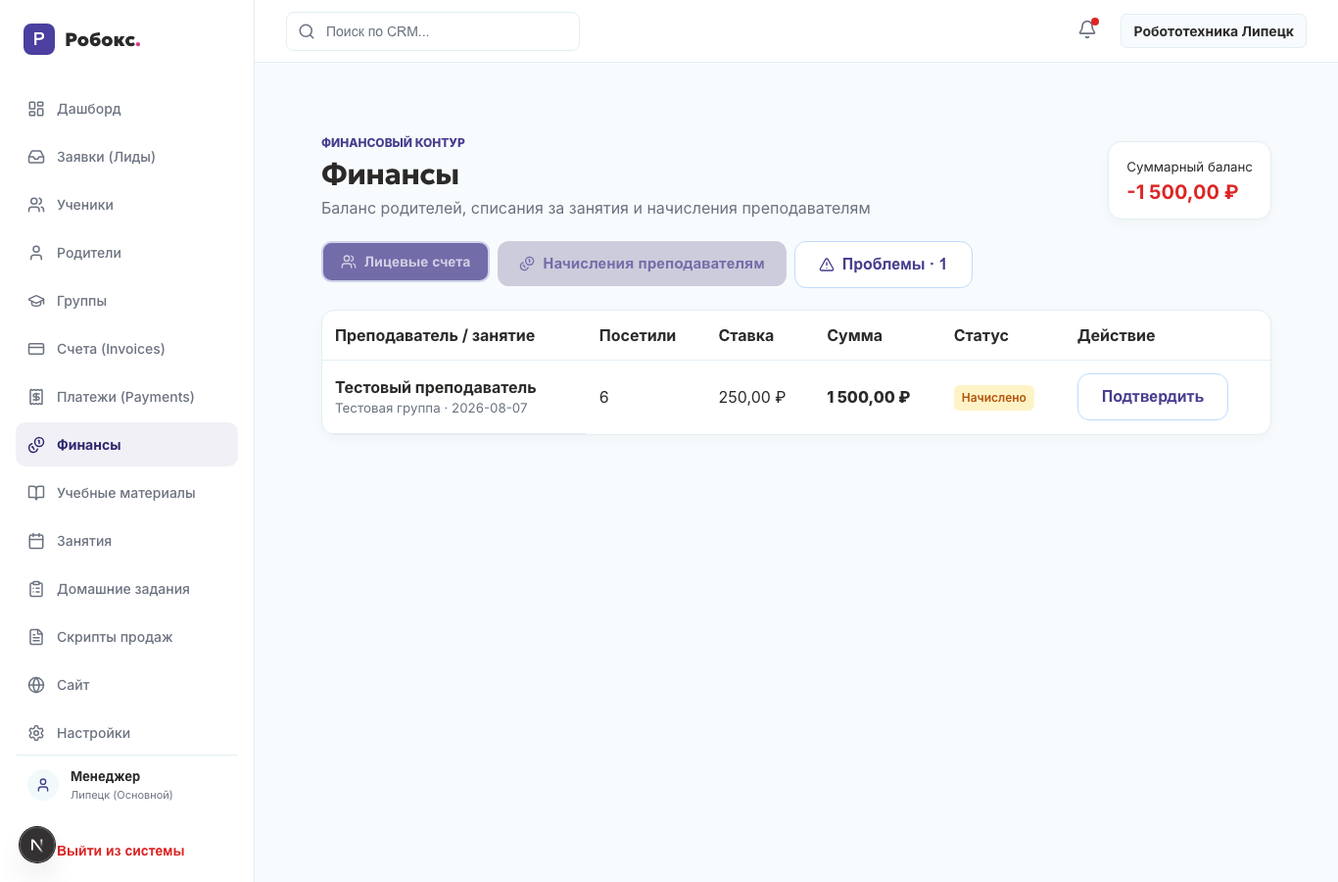
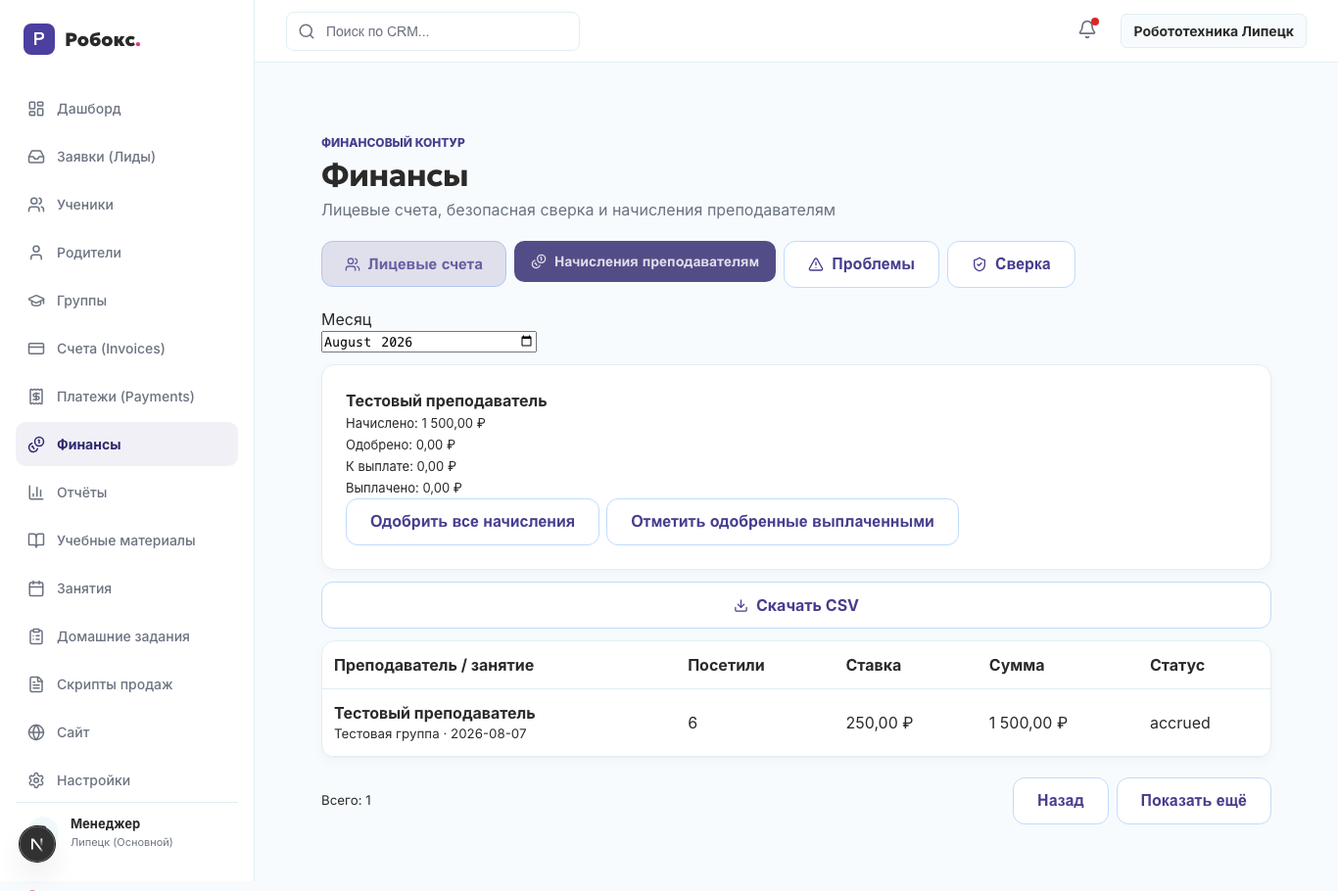
test(finance): verify reconciliation and reporting flows

diff --git a/apps/web/e2e/finance-reconciliation-reports.spec.ts b/apps/web/e2e/finance-reconciliation-reports.spec.ts
@@ -1,0 +1,94 @@
+import fs from "node:fs";
+import path from "node:path";
+import { expect, test, type Page } from "@playwright/test";
+
+const output = path.resolve(process.cwd(), "../../docs/media/finance-reconciliation");
+fs.mkdirSync(output, { recursive: true });
+const payment = { id: "20000000-0000-4000-8000-000000000001", amount: 2400, provider: "manual", status: "paid", paid_at: "2026-08-03T10:00:00Z", reflected: false, invoices: { number: "TEST-001" }, guardians: { full_name: "Тестовый плательщик" } };
+const warning = { id: "warning-1", warning_type: "missing_lesson_price", lesson_session_id: "20000000-0000-4000-8000-000000000002", details: { groupId: "20000000-0000-4000-8000-000000000003" }, lesson_sessions: { lesson_date: "2026-08-04", group_id: "20000000-0000-4000-8000-000000000003", groups: { title: "Тестовая группа" } } };
+
+async function noOverflow(page: Page) {
+  expect(await page.evaluate(() => document.documentElement.scrollWidth <= document.documentElement.clientWidth + 1)).toBe(true);
+}
+
+async function mockApp(page: Page) {
+  let paymentReflected = false;
+  let warningResolved = false;
+  await page.route("**/api/crm/media?path=branding/**", (route) => route.fulfill({ status: 200, contentType: "image/svg+xml", body: '<svg xmlns="http://www.w3.org/2000/svg" viewBox="0 0 32 32"><rect width="32" height="32" rx="8" fill="#4b3f9f"/><text x="16" y="22" text-anchor="middle" font-size="18" fill="white">Р</text></svg>' }));
+  await page.route("**/api/crm/finance?**", async (route) => {
+    const url = new URL(route.request().url());
+    const view = url.searchParams.get("view") || "accounts";
+    const items = view === "reconciliation" ? [{ ...payment, reflected: paymentReflected }] : view === "warnings" && !warningResolved ? [warning] : [];
+    const summary = view === "reconciliation" ? { paidCount: 1, paidAmount: 2400, reflectedCount: paymentReflected ? 1 : 0, unreflectedCount: paymentReflected ? 0 : 1 } : null;
+    await route.fulfill({ status: 200, contentType: "application/json", body: JSON.stringify({ ok: true, canManage: true, view, items, summary, page: 1, total: items.length, hasMore: false }) });
+  });
+  await page.route("**/api/crm/finance/reconcile", async (route) => {
+    const body = route.request().postDataJSON();
+    if (body.action === "payments") paymentReflected = true;
+    if (body.action === "lesson") warningResolved = true;
+    await route.fulfill({ status: 200, contentType: "application/json", body: JSON.stringify({ ok: true }) });
+  });
+  await page.route("https://placeholder.supabase.co/rest/v1/**", (route) => route.fulfill({ status: 200, contentType: "application/json", headers: { "content-range": "0-0/0" }, body: "[]" }));
+  await page.route("**/api/crm/reports?**", (route) => route.fulfill({ status: 200, contentType: "application/json", body: JSON.stringify({
+    ok: true,
+    directories: { branches: [{ id: "branch", name: "Тестовый филиал" }], courses: [{ id: "course", title: "Тестовое направление" }], groups: [{ id: "group", title: "Тестовая группа" }], teachers: [{ id: "teacher", name: "Тестовый преподаватель" }] },
+    report: {
+      sources: { cash: "payments paid/succeeded", lessonDebits: "billing_ledger_entries.lesson_debit", payroll: "teacher_payroll_entries snapshots" },
+      students: { active: 8, withoutGroup: 1, newInPeriod: 2 }, groups: { active: 2, occupancyRate: 75 },
+      lessons: { scheduled: 12, completed: 9, cancelled: 1, moved: 2 }, attendance: { rate: 88, present: 38, late: 3 },
+      finance: { cashReceived: 12400, paidPayments: 5, lessonDebits: 8400, totalDebt: 1700, debtors: 1 },
+      payroll: { accrued: 4200, approved: 3000, payable: 1200, paid: 1800 },
+      groupRows: [{ id: "group", title: "Тестовая группа", teacher: "Тестовый преподаватель", students: 6, capacity: 8, occupancyRate: 75, completedLessons: 5, visits: 24, absences: 3, lessonDebits: 4800, teacherPayroll: 2400 }],
+      teacherRows: [{ id: "teacher", teacher: "Тестовый преподаватель", completedLessons: 9, actualVisits: 41, averageChildren: 4.6, accrued: 4200, approved: 3000, paid: 1800, payable: 1200 }],
+      attendanceRows: [{ studentId: "student", student: "Тестовый ученик", groupId: "group", group: "Тестовая группа", lessons: 8, present: 6, late: 1, absentExcused: 1, absentUnexcused: 0, rate: 88 }],
+      debtRows: [{ guardian: "Тестовый плательщик", children: "Тестовый ученик", balance: -1700, lastPayment: "2026-08-03", lastDebit: "2026-08-05" }],
+    },
+  }) }));
+  await page.route("**/api/crm/reports/export?**", (route) => route.fulfill({ status: 200, contentType: "text/csv; charset=utf-8", headers: { "content-disposition": 'attachment; filename="report.csv"' }, body: "\uFEFFТест;Сумма\r\nСтрока;100" }));
+}
+
+test.describe("finance reconciliation and reports", () => {
+  test.describe.configure({ mode: "serial" });
+  test.skip(process.env.REAL_SUPABASE === "true", "Uses synthetic operational fixtures");
+
+  test("admin repairs finance and inspects management reports", async ({ page }) => {
+    await page.setViewportSize({ width: 1366, height: 768 });
+    await mockApp(page);
+    await page.goto("/crm/finance", { waitUntil: "domcontentloaded" });
+    await expect(page.getByText("Лицевые счета не найдены.")).toBeVisible();
+    await page.getByRole("button", { name: "Сверка" }).click();
+    await expect(page.getByText("Не отражено")).toBeVisible();
+    await expect(page.getByText("Тестовый плательщик")).toBeVisible();
+    await page.screenshot({ path: path.join(output, "finance-cutover.png"), fullPage: true });
+    await page.getByRole("checkbox").check();
+    await page.getByRole("button", { name: "Зачислить выбранные исторические оплаты" }).click();
+    await expect(page.getByText(/учтено/)).toBeVisible();
+
+    await page.getByRole("button", { name: "Проблемы" }).click();
+    await expect(page.getByText("Не задана цена занятия")).toBeVisible();
+    await expect(page.getByRole("link", { name: "Настроить стоимость группы" })).toHaveAttribute("href", /crm\/groups/);
+    await page.getByRole("button", { name: "Повторить финансовую обработку" }).click();
+    await expect(page.getByText("Открытых финансовых проблем нет.")).toBeVisible();
+    await page.screenshot({ path: path.join(output, "finance-problems-repaired.png"), fullPage: true });
+
+    await page.goto("/crm/reports", { waitUntil: "domcontentloaded" });
+    await expect(page.getByRole("heading", { name: "Отчёты" })).toBeVisible();
+    await expect(page.getByText("Получено оплат")).toBeVisible();
+    await expect(page.getByText("Стоимость проведённых занятий")).toBeVisible();
+    await noOverflow(page);
+    await page.screenshot({ path: path.join(output, "management-kpi-1366.png"), fullPage: true });
+    await page.getByRole("button", { name: "По преподавателям" }).click();
+    await expect(page.getByRole("cell", { name: "Тестовый преподаватель" })).toBeVisible();
+    await page.screenshot({ path: path.join(output, "teacher-report.png"), fullPage: true });
+    await page.getByRole("button", { name: "Задолженность" }).click();
+    await expect(page.getByText("Тестовый плательщик")).toBeVisible();
+    const download = page.waitForEvent("download");
+    await page.getByRole("link", { name: /Скачать задолженность CSV/ }).click();
+    await expect(await download).toBeTruthy();
+
+    await page.setViewportSize({ width: 1280, height: 800 });
+    await page.getByRole("button", { name: "Обзор" }).click();
+    await noOverflow(page);
+    await page.screenshot({ path: path.join(output, "management-kpi-1280.png"), fullPage: true });
+  });
+});

diff --git a/apps/web/e2e/finance-operations.spec.ts b/apps/web/e2e/finance-operations.spec.ts
@@ -12,8 +12,13 @@ async function mockFinance(page: Page) {
   await page.route("**/api/crm/media?path=branding/**", async (route) => route.fulfill({ status: 200, contentType: "image/svg+xml", body: '<svg xmlns="http://www.w3.org/2000/svg" viewBox="0 0 32 32"><rect width="32" height="32" rx="8" fill="#4b3f9f"/><text x="16" y="22" text-anchor="middle" font-size="18" font-family="sans-serif" fill="white">Р</text></svg>' }));
   await page.route("**/api/crm/finance?**", async (route) => {
     if (route.request().method() !== "GET") return route.continue();
-    const hasAccount = new URL(route.request().url()).searchParams.has("accountId");
-    await route.fulfill({ status: 200, contentType: "application/json", body: JSON.stringify({ ok: true, canManage: true, accounts: [account], payroll: [payroll], problems: [{ id: "problem-1", warning_type: "missing_teacher_rate", created_at: "2026-08-07T12:00:00Z", lesson_sessions: { lesson_date: "2026-08-07", groups: { title: "Тестовая группа" } } }], ledger: hasAccount ? [{ id: "entry-1", entry_type: "lesson_debit", amount: -750, reason: "Занятие 2026-08-07", created_at: "2026-08-07T12:00:00Z" }] : [] }) });
+    const view = new URL(route.request().url()).searchParams.get("view") || "accounts";
+    const items = view === "ledger"
+      ? [{ id: "entry-1", entry_type: "lesson_debit", amount: -750, reason: "Занятие 2026-08-07", created_at: "2026-08-07T12:00:00Z" }]
+      : view === "payroll" ? [payroll]
+      : view === "warnings" ? [{ id: "problem-1", warning_type: "missing_teacher_rate", teacher_id: "10000000-0000-4000-8000-000000000004", created_at: "2026-08-07T12:00:00Z", lesson_sessions: { lesson_date: "2026-08-07", groups: { title: "Тестовая группа" } } }]
+      : [account];
+    await route.fulfill({ status: 200, contentType: "application/json", body: JSON.stringify({ ok: true, canManage: true, view, items, total: items.length, hasMore: false, page: 1, summary: view === "payroll" ? [{ teacherId: payroll.teacher_id, teacherName: "Тестовый преподаватель", accrued: 1500, approved: 0, payable: 0, paid: 0 }] : null }) });
   });
   await page.route("**/api/crm/finance", async (route) => route.fulfill({ status: 200, contentType: "application/json", body: JSON.stringify({ ok: true }) }));
 }
@@ -40,13 +45,13 @@ test.describe("finance operational contour", () => {
     await page.screenshot({ path: path.join(output, "crm-account-drawer.png"), fullPage: true }); // 11
     await page.getByLabel("Сумма").fill("500"); // 12
     await page.getByLabel("Причина корректировки").fill("Тестовая корректировка"); // 13
-    await expect(page.getByRole("button", { name: "Добавить операцию" })).toBeEnabled(); // 14
+    await expect(page.getByRole("button", { name: "Задать начальный остаток / добавить операцию" })).toBeEnabled(); // 14
     await page.getByRole("button", { name: "Закрыть" }).click(); // 15
     await page.getByRole("button", { name: "Начисления преподавателям" }).click(); // 16
-    await expect(page.getByText("Тестовый преподаватель")).toBeVisible(); // 17
+    await expect(page.getByRole("row", { name: /Тестовый преподаватель/ })).toBeVisible(); // 17
     await expect(page.getByRole("row", { name: /Тестовый преподаватель/ }).getByText("1 500,00 ₽", { exact: true })).toBeVisible(); // 18
     await page.screenshot({ path: path.join(output, "crm-payroll.png"), fullPage: true }); // 19
-    await page.getByRole("button", { name: "Проблемы · 1" }).click(); // 20
+    await page.getByRole("button", { name: "Проблемы" }).click(); // 20
     await expect(page.getByText("Не задана ставка преподавателя")).toBeVisible(); // 21
     await page.screenshot({ path: path.join(output, "crm-problems.png"), fullPage: true }); // 22
     await noOverflow(page); // 23

diff --git a/apps/web/src/__tests__/management-reports.test.ts b/apps/web/src/__tests__/management-reports.test.ts
@@ -1,0 +1,50 @@
+import { describe, expect, it } from "vitest";
+import { buildManagementReport } from "@/lib/reports/management";
+
+describe("authoritative management report formulas", () => {
+  it("keeps cash, lesson debits, attendance, debt and payroll snapshots distinct", () => {
+    const report = buildManagementReport({
+      students: [
+        { id: "s1", status: "active", created_at: "2026-08-05" },
+        { id: "s2", status: "active", created_at: "2026-07-01" },
+      ],
+      groups: [{ id: "g1", title: "Group 1", status: "active", capacity: 4, teacher_id: "t1", teacher_name: "Teacher 1" }],
+      enrollments: [{ student_id: "s1", group_id: "g1", status: "active" }],
+      sessions: [
+        { id: "l1", group_id: "g1", teacher_id: "t1", status: "completed", rescheduled_from_session_id: null },
+        { id: "l2", group_id: "g1", teacher_id: "t1", status: "planned", rescheduled_from_session_id: "old" },
+      ],
+      attendance: [
+        { student_id: "s1", student_name: "Student 1", group_id: "g1", group_title: "Group 1", status: "present" },
+        { student_id: "s1", student_name: "Student 1", group_id: "g1", group_title: "Group 1", status: "late" },
+        { student_id: "s1", student_name: "Student 1", group_id: "g1", group_title: "Group 1", status: "absent_excused" },
+        { student_id: "s1", student_name: "Student 1", group_id: "g1", group_title: "Group 1", status: "absent_unexcused" },
+      ],
+      payments: [{ id: "p1", amount: 1000, status: "paid" }],
+      ledger: [
+        { entry_type: "payment", amount: 1000, group_id: null },
+        { entry_type: "lesson_debit", amount: -500, group_id: "g1" },
+        { entry_type: "manual_credit", amount: 200, group_id: null },
+        { entry_type: "manual_debit", amount: -50, group_id: null },
+      ],
+      accounts: [{ guardian_id: "r1", balance: -500 }],
+      payroll: [
+        { teacher_id: "t1", teacher_name: "Teacher 1", group_id: "g1", lesson_session_id: "l1", attendee_count: 2, amount: 300, status: "accrued" },
+        { teacher_id: "t1", teacher_name: "Teacher 1", group_id: "g1", lesson_session_id: "l2", attendee_count: 1, amount: 400, status: "approved" },
+        { teacher_id: "t1", teacher_name: "Teacher 1", group_id: "g1", lesson_session_id: "l3", attendee_count: 3, amount: 500, status: "paid" },
+      ],
+      dateFrom: "2026-08-01",
+      dateTo: "2026-08-31",
+    });
+
+    expect(report.students).toEqual({ active: 2, withoutGroup: 1, newInPeriod: 1 });
+    expect(report.groups).toEqual({ active: 1, enrolled: 1, capacity: 4, occupancyRate: 25 });
+    expect(report.lessons).toEqual({ scheduled: 2, completed: 1, cancelled: 0, moved: 1 });
+    expect(report.attendance).toEqual({ total: 4, present: 1, late: 1, absentExcused: 1, absentUnexcused: 1, rate: 50 });
+    expect(report.finance).toEqual({ paidPayments: 1, cashReceived: 1000, lessonDebits: 500, manualAdjustments: 150, totalDebt: 500, debtors: 1 });
+    expect(report.payroll).toEqual({ accrued: 1200, approved: 900, paid: 500, payable: 400 });
+    expect(report.groupRows[0]).toMatchObject({ occupancyRate: 25, completedLessons: 1, visits: 2, absences: 2, lessonDebits: 500, teacherPayroll: 1200 });
+    expect(report.teacherRows[0]).toMatchObject({ completedLessons: 1, actualVisits: 6, averageChildren: 2, accrued: 1200, approved: 900, paid: 500, payable: 400 });
+    expect(report.attendanceRows[0]).toMatchObject({ lessons: 4, present: 1, late: 1, absentExcused: 1, absentUnexcused: 1, rate: 50 });
+  });
+});

diff --git a/apps/web/src/__tests__/finance-management-contract.test.ts b/apps/web/src/__tests__/finance-management-contract.test.ts
@@ -1,0 +1,59 @@
+import fs from "node:fs";
+import path from "node:path";
+import { describe, expect, it } from "vitest";
+
+const read = (relative: string) => fs.readFileSync(path.resolve(process.cwd(), relative), "utf8");
+
+describe("finance management workflows", () => {
+  it("paginates finance datasets and searches account relations in the database", () => {
+    const route = read("src/app/api/crm/finance/route.ts");
+    expect(route).toContain('searchParams.get("view")');
+    expect(route).toContain('searchParams.get("page")');
+    expect(route).toContain('searchParams.get("pageSize")');
+    expect(route).toContain(".range(");
+    expect(route).toContain('from("guardians")');
+    expect(route).toContain('from("students")');
+    expect(route).not.toContain("filteredAccounts");
+    expect(route).not.toContain(".limit(300)");
+  });
+
+  it("exposes explicit payment and completed-lesson reconciliation", () => {
+    const route = read("src/app/api/crm/finance/reconcile/route.ts");
+    expect(route).toContain("reconcile_paid_payment");
+    expect(route).toContain("reconcile_lesson_finance");
+    expect(route).toContain("Исторические оплаты и начальный остаток нельзя учитывать дважды");
+    expect(route).not.toContain("autoBackfill");
+  });
+
+  it("makes warnings, cutover and payroll periods actionable", () => {
+    const page = read("src/app/(crm)/crm/finance/page.tsx");
+    for (const label of [
+      "Сверка",
+      "Назначить плательщика",
+      "Настроить стоимость группы",
+      "Настроить ставку",
+      "Повторить финансовую обработку",
+      "Зачислить выбранные исторические оплаты",
+      "Одобрить все начисления",
+      "Отметить одобренные выплаченными",
+      "Показать ещё",
+    ]) expect(page).toContain(label);
+  });
+
+  it("offers visible-data CSV exports with an Excel BOM", () => {
+    const csv = read("src/lib/finance/csv.ts");
+    const financeExport = read("src/app/api/crm/finance/export/route.ts");
+    const reportExport = read("src/app/api/crm/reports/export/route.ts");
+    expect(csv).toContain("\\uFEFF");
+    expect(financeExport).toContain("ledger");
+    for (const type of ["attendance", "debt", "payroll"]) expect(reportExport).toContain(type);
+    expect(reportExport).not.toMatch(/token|secret/i);
+  });
+
+  it("keeps the dashboard operational and links to finance workspaces", () => {
+    const route = read("src/app/api/crm/dashboard/route.ts");
+    const page = read("src/app/(crm)/crm/page.tsx");
+    for (const field of ["todayCompleted", "todayRemaining", "parentDebt", "monthPayroll"]) expect(route).toContain(field);
+    for (const label of ["Открыть расписание", "Открыть должников", "Открыть payroll"]) expect(page).toContain(label);
+  });
+});

diff --git a/apps/web/playwright.config.ts b/apps/web/playwright.config.ts
@@ -8,7 +8,7 @@ export default defineConfig({
   fullyParallel: true,
   forbidOnly: !!process.env.CI,
   retries: process.env.CI ? 2 : 0,
-  workers: process.env.CI ? 1 : undefined,
+  workers: 1,
   reporter: "html",
   use: {
     baseURL: "http://localhost:3001",

diff --git a/docs/superpowers/plans/2026-08-11-finance-reconciliation-management-reports.md b/docs/superpowers/plans/2026-08-11-finance-reconciliation-management-reports.md
@@ -1,0 +1,144 @@
+# Finance Reconciliation and Management Reports Implementation Plan
+
+> **For agentic workers:** REQUIRED SUB-SKILL: Use superpowers:subagent-driven-development (recommended) or superpowers:executing-plans to implement this plan task-by-task. Steps use checkbox (`- [ ]`) syntax for tracking.
+
+**Goal:** Make EdCRM finance recoverable after missed processing, provide a controlled production cutover, and expose operational management reports calculated from authoritative entities.
+
+**Architecture:** Keep `billing_accounts`, `billing_ledger_entries`, `finance_warnings`, `teacher_payroll_entries`, payments, lessons and attendance authoritative. Add transaction-safe reconciliation and payroll RPCs in one forward migration, expose focused paginated organization-scoped APIs, and keep report calculations server-side without shadow analytics tables.
+
+**Tech Stack:** PostgreSQL/Supabase migrations and pgTAP, Next.js App Router, Supabase JS, React 19, Zod, Vitest, Playwright.
+
+---
+
+### Task 1: Restore reproducible fresh-database bootstrap
+
+**Files:**
+- Modify: `supabase/migrations/20260621000001_lms_sales_light.sql`
+- Test: full migration chain via `npx supabase db reset`
+
+- [ ] Confirm RED: fresh reset fails because the LMS demo rows reference organization `a3848a60-a292-491a-85eb-7f2824cf4e77` before `20260701000000_baseline_roboks_seed_fixup.sql` creates it.
+- [ ] Wrap only the legacy demo-data section in a conditional block that runs when both the organization and primary course already exist; leave all schema DDL unchanged.
+- [ ] Run `npx supabase db reset` and verify every migration through the newest finance migration applies.
+- [ ] Commit as `fix(db): restore reproducible supabase reset`.
+
+### Task 2: Define real DB lifecycle tests before reconciliation implementation
+
+**Files:**
+- Create: `supabase/tests/finance_lifecycle.test.sql`
+- Modify: `package.json`
+
+- [ ] Add pgTAP fixtures for an isolated organization, teacher, guardian, student, group, sessions, invoice and payment.
+- [ ] Add failing assertions for paid settlement/idempotency, full refund/idempotency/monotonic status, lesson debit/idempotency/negative balance, absence policies, trial, makeup, missing contact repair, missing price repair, missing teacher rate repair and historical explicit cutover.
+- [ ] Add exact report-fixture totals for cash received, lesson debits, attendance, payroll and debt.
+- [ ] Run `npx supabase test db supabase/tests/finance_lifecycle.test.sql` and confirm failures are caused by missing reconciliation/hardening functions.
+
+### Task 3: Add transaction-safe reconciliation and payroll period operations
+
+**Files:**
+- Create: `supabase/migrations/20260811000001_finance_reconciliation_management.sql`
+- Test: `supabase/tests/finance_lifecycle.test.sql`
+
+- [ ] Add `reconcile_lesson_finance(organization_id, lesson_session_id, actor_id)` that locks only a completed lesson, creates only absent lesson debits, updates balances, resolves only repaired warnings, leaves attendance/status/completed time/payroll unchanged, and is idempotent.
+- [ ] Harden `settle_paid_payment` so a refunded payment cannot return to paid; document full-refund-only semantics in function errors/comments.
+- [ ] Add DB-safe idempotent bulk payroll transition for one teacher and month, using snapshot amounts and legal accrued→approved→paid transitions.
+- [ ] Add indexed server-side account search support without storing derived analytics data.
+- [ ] Run the DB test and make every lifecycle assertion green.
+- [ ] Commit as `feat(finance): add reconciliation and payroll period operations`.
+
+### Task 4: Split finance API into paginated operational datasets and exports
+
+**Files:**
+- Modify: `apps/web/src/app/api/crm/finance/route.ts`
+- Create: `apps/web/src/app/api/crm/finance/reconcile/route.ts`
+- Create: `apps/web/src/app/api/crm/finance/export/route.ts`
+- Create: `apps/web/src/lib/finance/csv.ts`
+- Test: `apps/web/src/__tests__/finance-management-contract.test.ts`
+
+- [ ] Write RED contract tests for `view`, `page`, `pageSize`, date/group/teacher/status/warning filters and organization-scoped CSV.
+- [ ] Implement server-side account search using matching guardian/student IDs and paginated Supabase ranges; paginate ledger, payroll and warnings independently.
+- [ ] Add cutover summary and explicit selected-payment reconciliation; never auto-backfill.
+- [ ] Add lesson reconciliation endpoint and opening-balance action with explicit double-count warning acknowledgement.
+- [ ] Export UTF-8 BOM CSV only for visible attendance, debt, payroll and ledger fields.
+- [ ] Run focused Vitest tests green.
+
+### Task 5: Make Finance problems, cutover and payroll actionable
+
+**Files:**
+- Modify: `apps/web/src/app/(crm)/crm/finance/page.tsx`
+- Create: `apps/web/src/app/(crm)/crm/finance/FinancePagination.tsx`
+- Test: `apps/web/src/__tests__/finance-projections.test.ts`
+
+- [ ] Add problem filters: all, billing contact, lesson price, teacher rate.
+- [ ] Add contextual links to student/group/teacher settings and a “Повторить финансовую обработку” action for completed lessons.
+- [ ] Add “Сверка” view with historical paid-payment counts/sums, explicit selection and opening-balance warning.
+- [ ] Add month filter, teacher summaries and bulk approve/pay actions using the DB RPC.
+- [ ] Add pagination/load-more controls and ledger CSV export.
+- [ ] Keep manager read-only behavior and mobile layouts intact.
+- [ ] Run focused Vitest tests green.
+- [ ] Commit as `feat(finance): add reconciliation and production cutover tools`.
+
+### Task 6: Add authoritative operational reports and CSV
+
+**Files:**
+- Create: `apps/web/src/app/api/crm/reports/route.ts`
+- Create: `apps/web/src/app/api/crm/reports/export/route.ts`
+- Create: `apps/web/src/lib/reports/management.ts`
+- Create: `apps/web/src/app/(crm)/crm/reports/page.tsx`
+- Modify: `apps/web/src/app/(crm)/crm/CrmLayoutClient.tsx`
+- Test: `apps/web/src/__tests__/management-reports.test.ts`
+
+- [ ] Write RED fixture tests with exact KPI formulas and cash-versus-lesson-debit separation.
+- [ ] Implement date presets and branch/course/group/teacher filters.
+- [ ] Calculate student, group, lesson, attendance, finance, payroll and debt KPIs from authoritative rows.
+- [ ] Add group, teacher, attendance and debt tables with required sorting and navigation links; label group capacity as current capacity.
+- [ ] Add organization-scoped attendance, debt and payroll CSV exports with BOM and no internal auth IDs/secrets.
+- [ ] Add “Отчёты” to CRM navigation and run focused tests green.
+- [ ] Commit as `feat(reports): add operational management analytics`.
+
+### Task 7: Add compact dashboard finance signals
+
+**Files:**
+- Modify: `apps/web/src/app/api/crm/dashboard/route.ts`
+- Modify: `apps/web/src/app/(crm)/crm/page.tsx`
+- Test: `apps/web/src/__tests__/dashboard-operational-data.test.ts`
+
+- [ ] Add RED assertions for today planned/completed/remaining lessons, current parent debt and current-month payroll accrued.
+- [ ] Extend the dashboard API with exact scoped aggregates.
+- [ ] Add compact cards and links to schedule, debt and payroll without duplicating Reports.
+- [ ] Run focused tests green.
+
+### Task 8: Document cutover and refund semantics
+
+**Files:**
+- Create: `docs/deployment/finance-cutover.md`
+
+- [ ] Document the ten-step disabled-by-default cutover checklist and explicit payment/opening balance choice.
+- [ ] State that historical completed lessons are never processed in background and reconciliation is explicit per lesson.
+- [ ] State that the current AlfaBank/product contract supports one full refund per payment, not partial refunds.
+- [ ] Include deploy commands, rollback cautions and verification queries.
+
+### Task 9: E2E and responsive evidence
+
+**Files:**
+- Create: `apps/web/e2e/finance-reconciliation-reports.spec.ts`
+- Create: `docs/media/finance-reconciliation/` screenshots
+
+- [ ] Mock only organization-scoped API boundaries with synthetic data and implement the 15-step admin journey from cutover through CSV.
+- [ ] Run at 1366×768 and 1280×800 and verify no horizontal overflow.
+- [ ] Re-run teacher and parent 390×844 smoke checks without changing demo or parent-access logic.
+- [ ] Inspect every screenshot for phones, emails, tokens, UUIDs and child personal data.
+- [ ] Commit as `test(finance): verify reconciliation and management reports`.
+
+### Task 10: Full verification and publication
+
+**Files:**
+- Review all changed files against this plan and the original specification.
+
+- [ ] Run `npx supabase db reset`.
+- [ ] Run `npx supabase test db supabase/tests/finance_lifecycle.test.sql`.
+- [ ] Run `npm run lint`.
+- [ ] Run full unit tests and separately record the unchanged `parent-access.test.ts` baseline if still failing.
+- [ ] Run `npm --workspace apps/web run build`.
+- [ ] Run `npm --workspace apps/web run test:e2e`.
+- [ ] Run `git diff --check` and inspect the final diff for unrelated payment/MAX/parent/demo changes.
+- [ ] Push `codex/finance-reconciliation-management-reports` without merging `main`.
